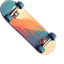
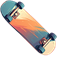
fixed cursor size

diff --git a/public/styles.css b/public/styles.css
@@ -4,11 +4,13 @@ body {
 }
 
 a, button, input, select, textarea, [onclick],
-.icon-btn, .cart-btn, .wishlist-card-btn, .carousel-card,
-.carousel-btn, .product-card, .product-thumbnail,
-.hero-btn, .carousel-card-btn, .nav-link,
-.footer-social-link, .secondary-btn, .primary-btn,
-.close-modal-btn, .cookie-btn, .marquee-item {
+[style*="cursor: pointer"], [class*="btn"], [class*="link"],
+[class*="card"], [class*="icon"], [class*="close"],
+.nav-link, .footer-social-link, .marquee-item, .logo a,
+.site-header a, .site-header button, .carousel-btn,
+.carousel-card, .product-card, .product-thumbnail,
+.hero-btn, .secondary-btn, .primary-btn, .close-modal-btn,
+.cookie-btn, .cookie-accept-btn {
   cursor: url('assets/pointer.png') 32 32, pointer !important;
 }
 

diff --git a/public/index.html b/public/index.html
@@ -1236,7 +1236,7 @@
           <svg class="feature-icon" viewBox="0 0 48 48" fill="none" stroke="currentColor" stroke-width="1.8" stroke-linecap="round" stroke-linejoin="round">
             <rect x="6" y="14" width="36" height="24" rx="3"/>
             <path d="M6 20h36"/>
-            <path d="M20 28h8"/>
+            <path d="M20 28h8"/>  
           </svg>
           <span class="feature-label">Online Payment</span>
           <span class="feature-desc">Secure checkout</span>
